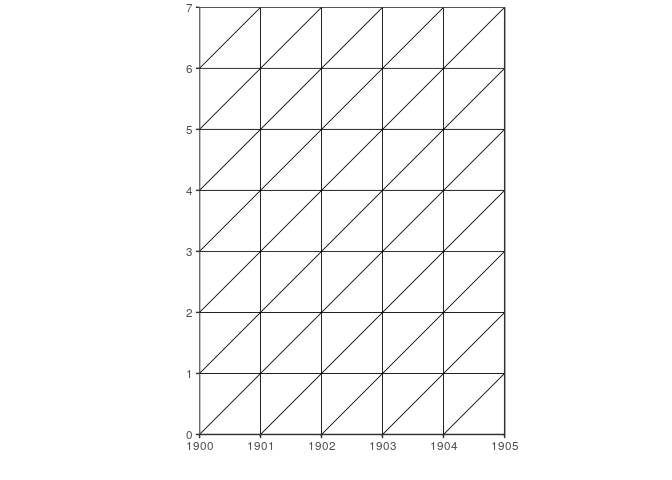
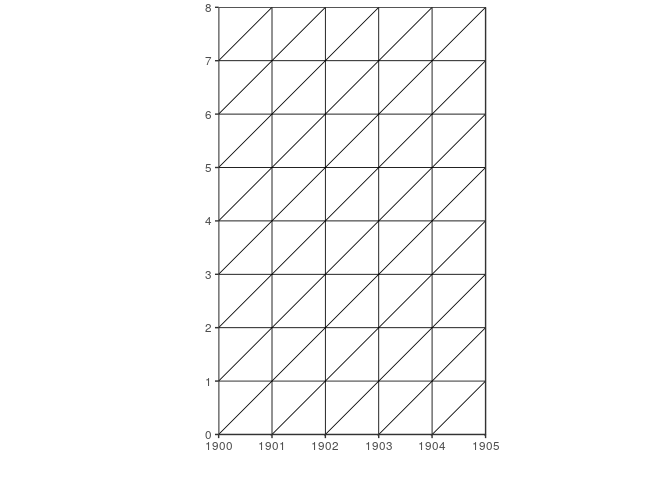
updated README

diff --git a/README.md b/README.md
@@ -47,7 +47,7 @@ lexis_grid(year_start = 1900, year_end = 1905, age_start = 0, age_end = 5)
 The aspect ratio of the axes is fixed to ensure right-angled triangles. So even non-square Lexis grids show right-angled triangles:
 
 ``` r
-lexis_grid(year_start = 1900, year_end = 1905, age_start = 0, age_end = 7)
+lexis_grid(year_start = 1900, year_end = 1905, age_start = 0, age_end = 8)
 ```
 
 ![](README_files/figure-markdown_github/unnamed-chunk-3-1.png)
